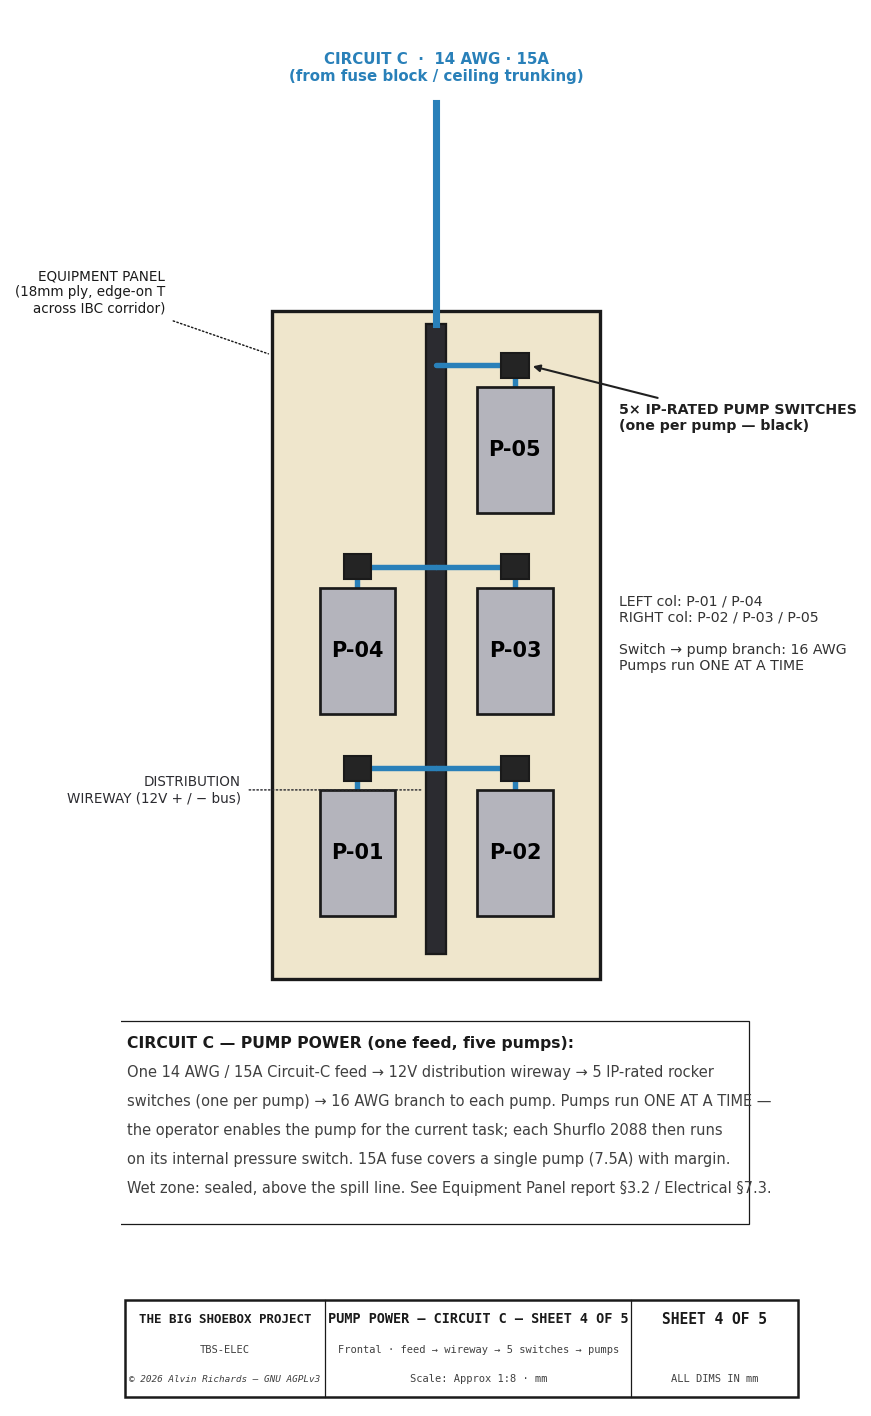
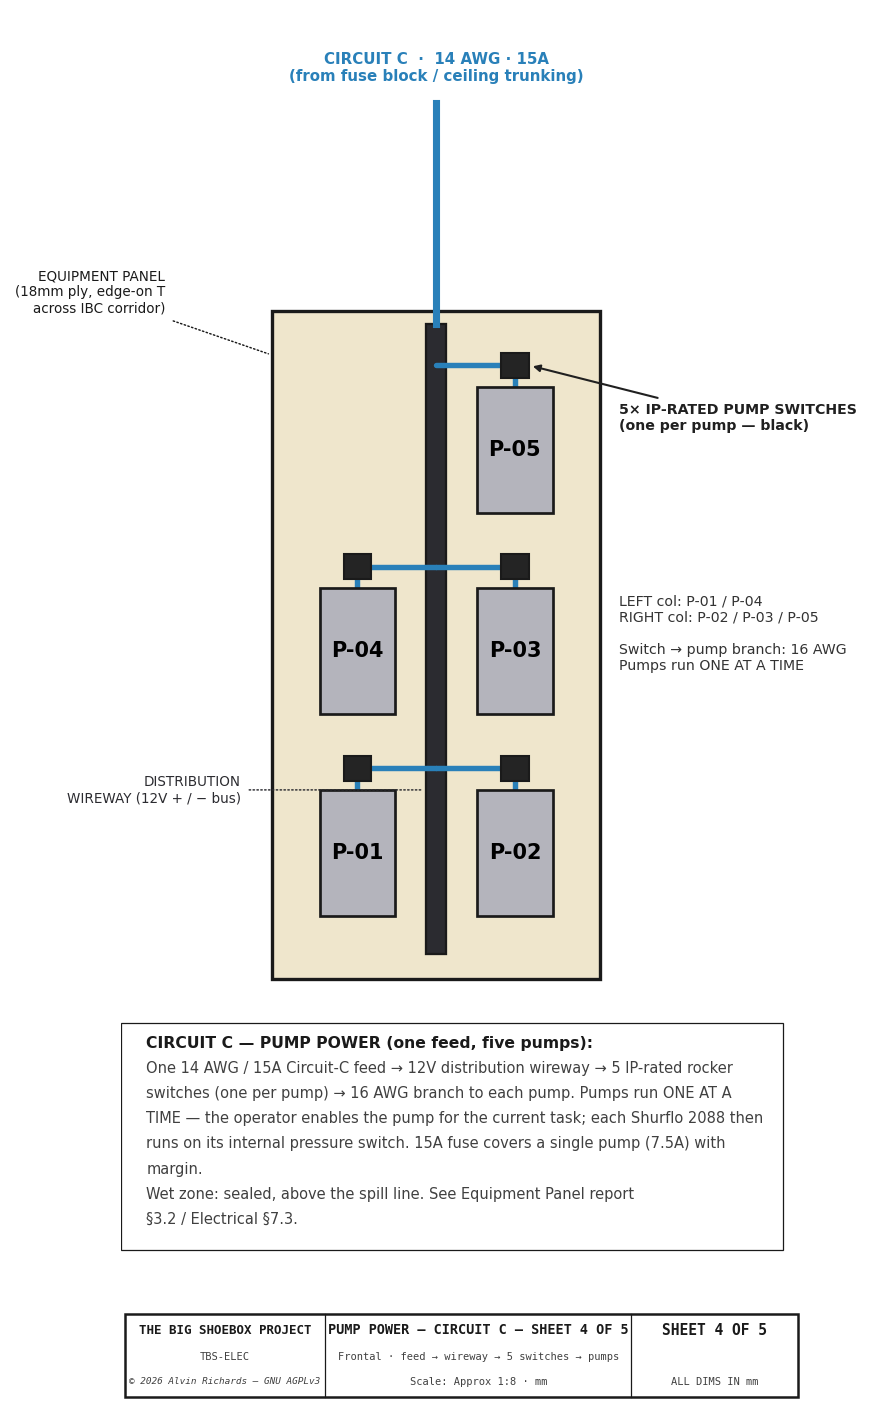
Tidy labels

Changed region(s): [[0.124, 0.7147, 0.868, 0.8701], [0.155, 0.9011, 0.93, 0.9944]]

diff --git a/src/generators/generate_electrical_diagram.py b/src/generators/generate_electrical_diagram.py
@@ -1460,17 +1460,19 @@ def draw_sheet4():
     draw_notes(ax, [
         "CIRCUIT C — PUMP POWER (one feed, five pumps):",
         "One 14 AWG / 15A Circuit-C feed → 12V distribution wireway → 5 IP-rated rocker",
-        "switches (one per pump) → 16 AWG branch to each pump. Pumps run ONE AT A TIME —",
-        "the operator enables the pump for the current task; each Shurflo 2088 then runs",
-        "on its internal pressure switch. 15A fuse covers a single pump (7.5A) with margin.",
-        "Wet zone: sealed, above the spill line. See Equipment Panel report §3.2 / Electrical §7.3.",
-    ], -270, 910, spacing=46, fs=7.0, width=940)
+        "switches (one per pump) → 16 AWG branch to each pump. Pumps run ONE AT A",
+        "TIME — the operator enables the pump for the current task; each Shurflo 2088 then",
+        "runs on its internal pressure switch. 15A fuse covers a single pump (7.5A) with",
+        "margin.",
+        "Wet zone: sealed, above the spill line. See Equipment Panel report",
+        "§3.2 / Electrical §7.3.",
+    ], -240, 910, spacing=40, fs=7.0, width=970)
 
     title_block(ax, "SHEET 4 OF 5",
                 drawing_title="PUMP POWER — CIRCUIT C",
                 subtitle="Frontal · feed → wireway → 5 switches → pumps",
                 scale_note="Approx 1:8 · mm",
-                doc_id="TBS-ELEC", height=0.07, portrait=True)
+                doc_id="TBS-ELEC", height=0.06, portrait=True)
 
     plt.savefig(f"{DIAGRAMS_DIR}/electrical-sheet4.png", dpi=150, bbox_inches="tight",
                 pad_inches=0.10, facecolor="white")
